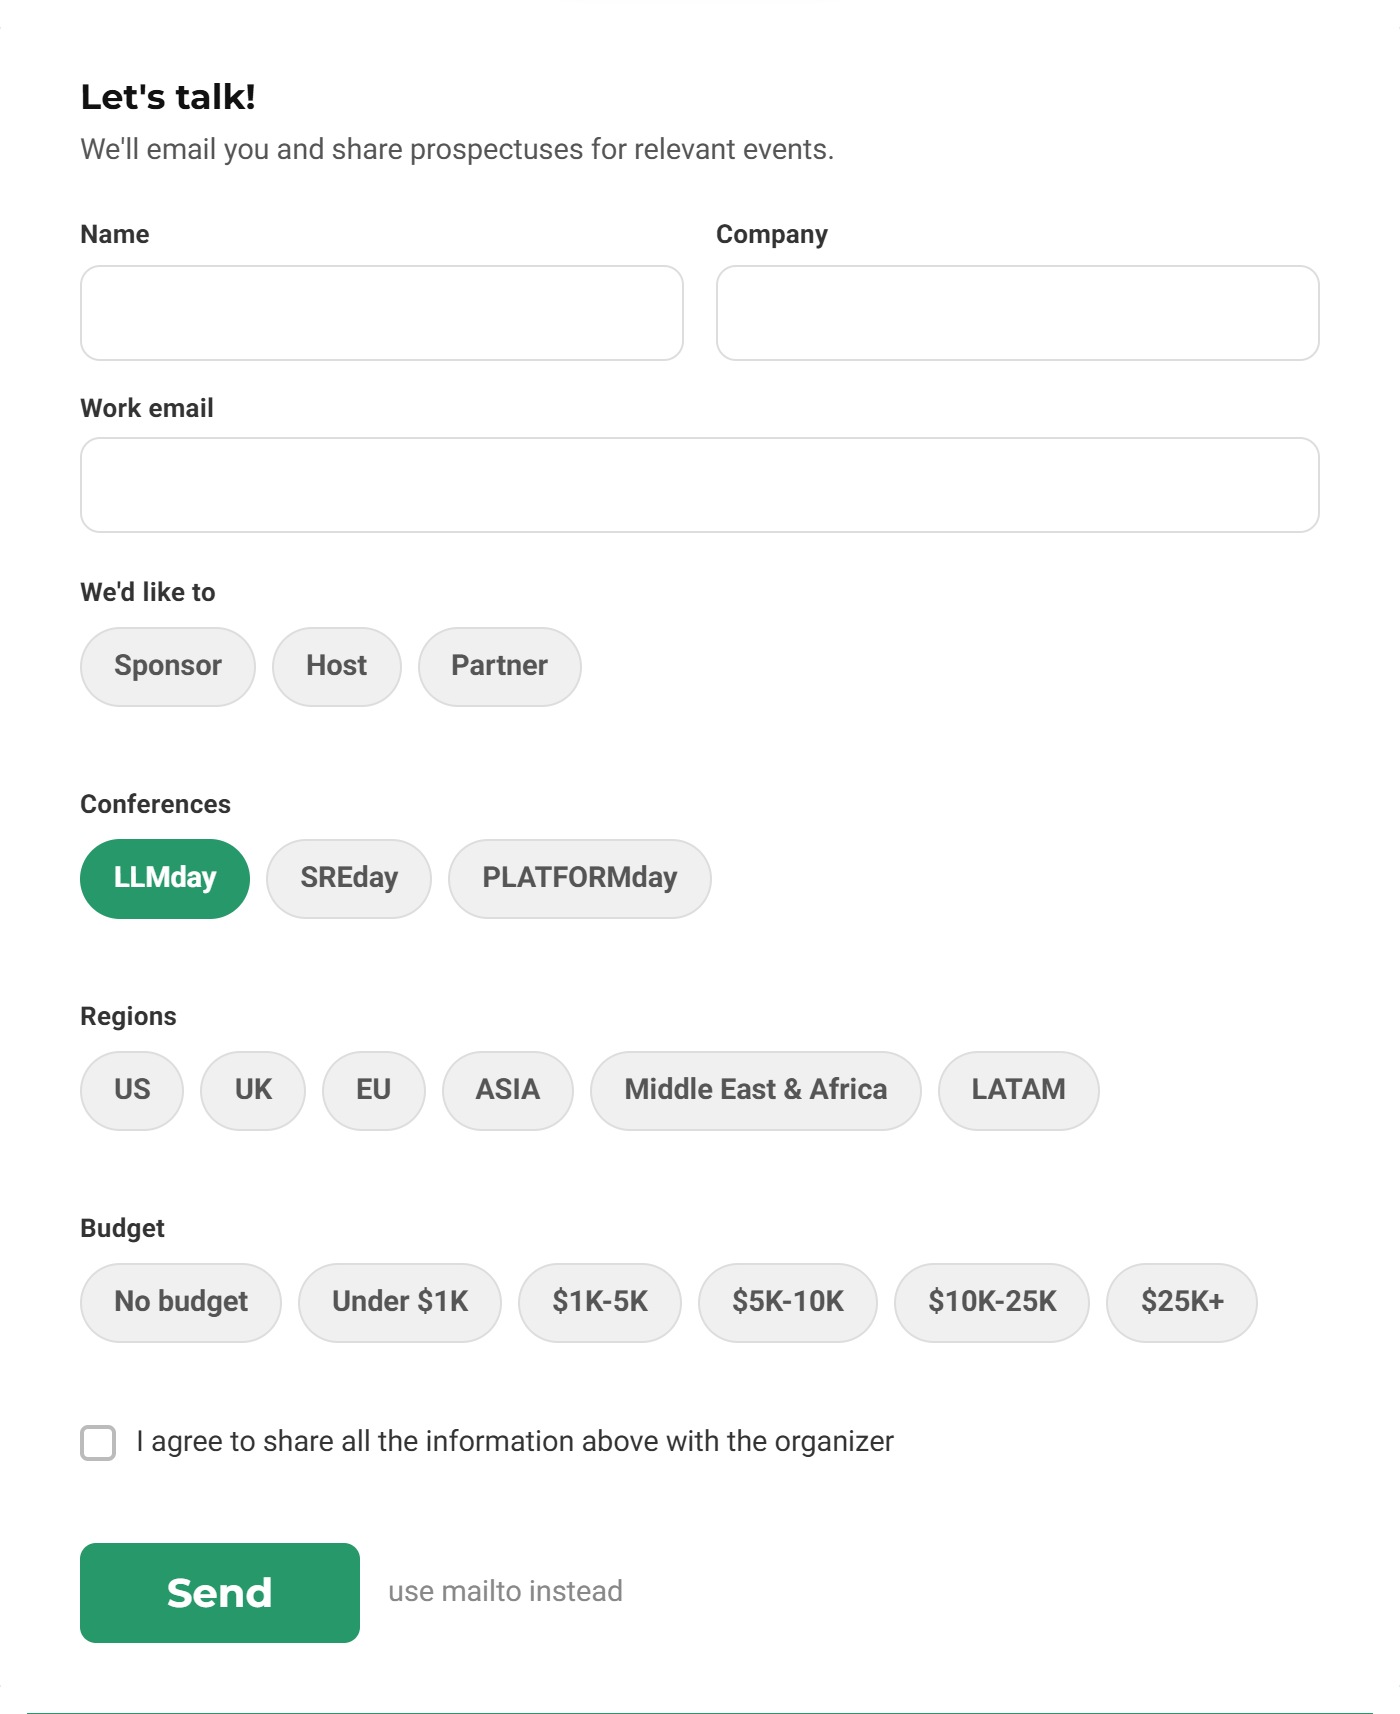
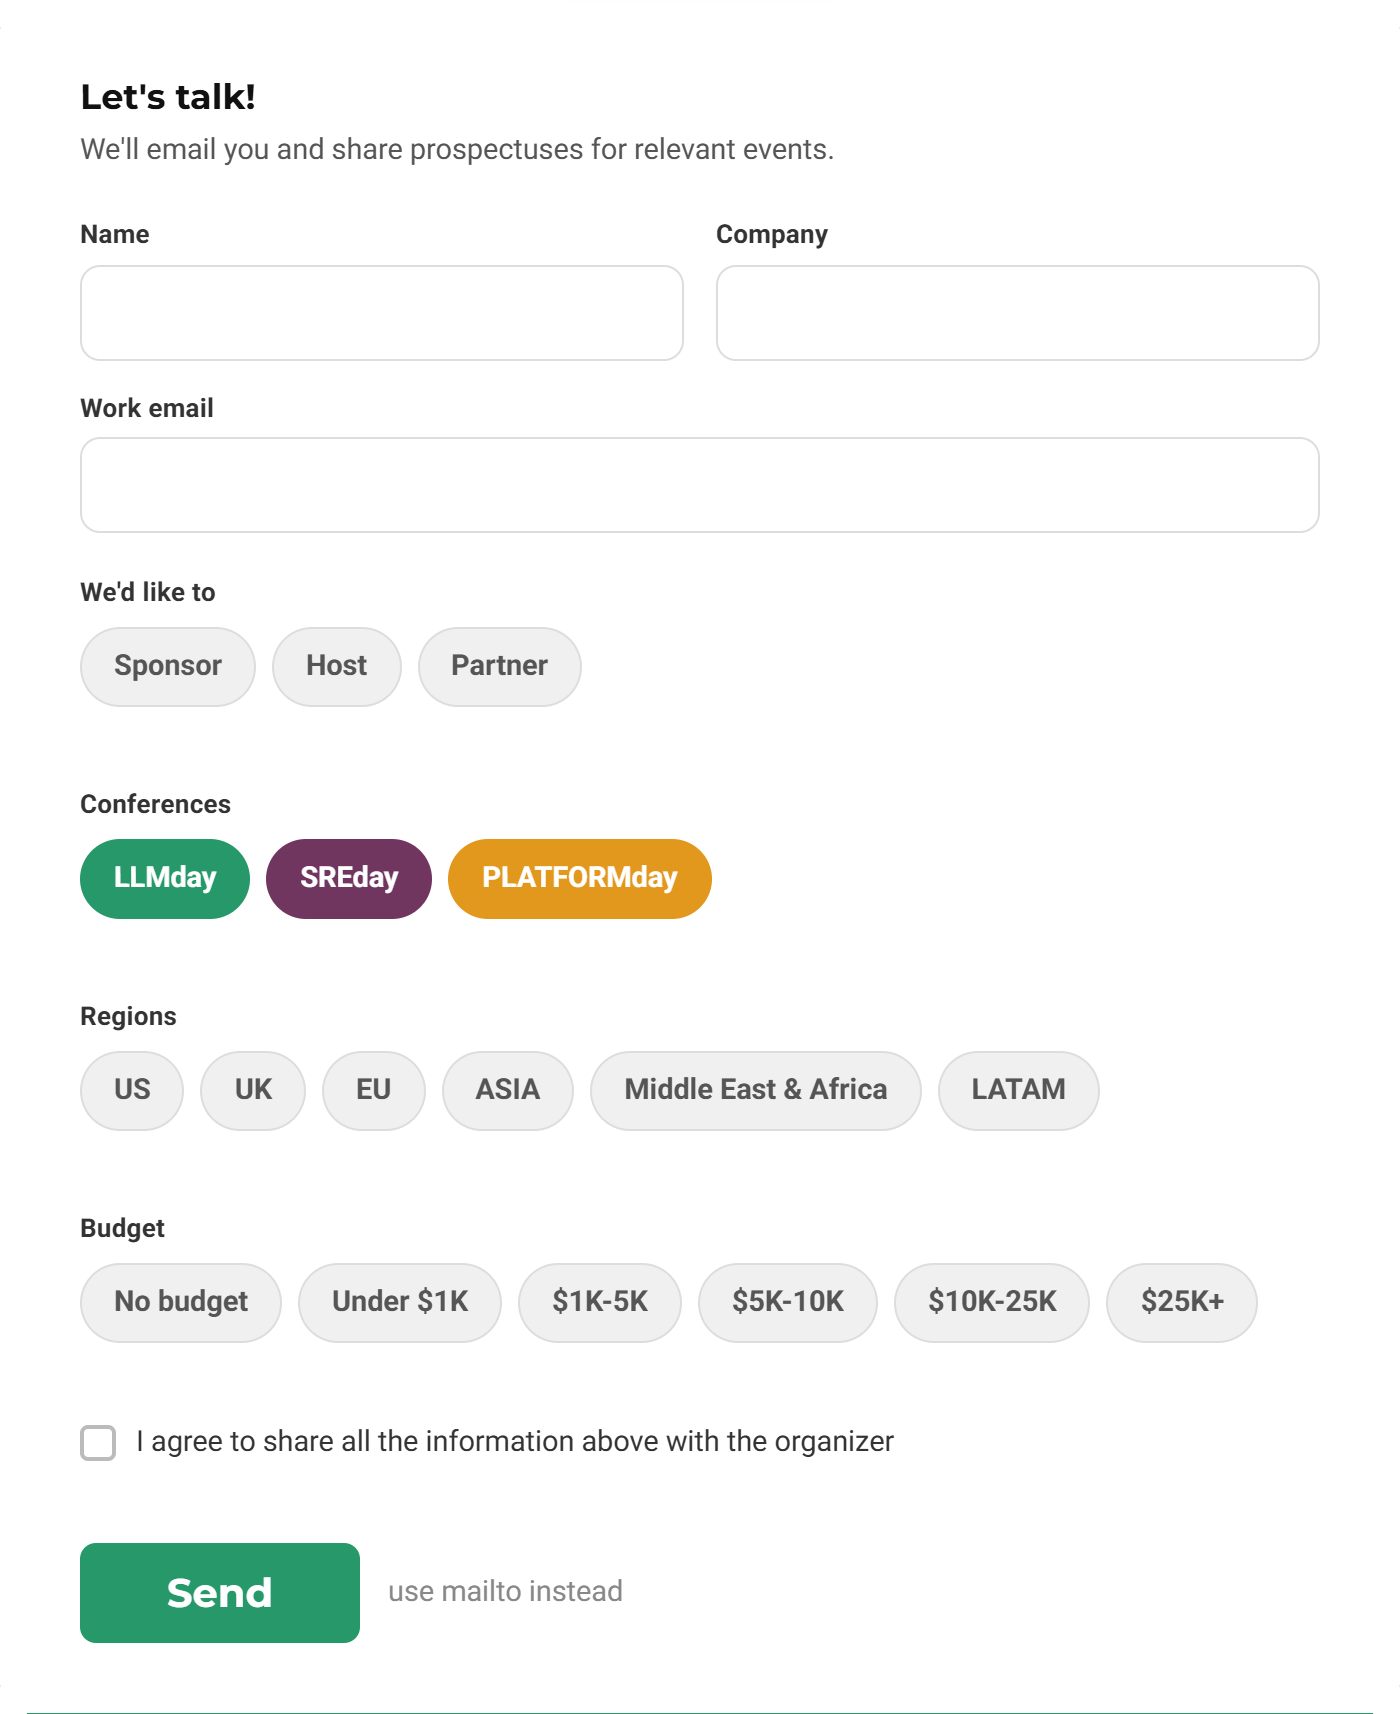
Hello deck: OTHER BRANDS / CFP.NINJA labels on the Call for papers slide; Let's chat form shot with all three brands on

Changed region(s): [[0.1843, 0.4638, 0.5221, 0.5566]]

diff --git a/2026-san-francisco-q4/_templates/hello.html b/2026-san-francisco-q4/_templates/hello.html
@@ -113,17 +113,29 @@
 
     /* 5 - other brands */
     .family { display: flex; gap: 110px; align-items: flex-end; }
-    .family > div { display: flex; flex-direction: column; align-items: center; width: 400px; }
+    .family .it { display: flex; flex-direction: column; align-items: center; width: 400px; }
     .family .logo { width: 330px; height: 330px; margin-bottom: 40px; }
     .family .qr-box { width: 360px; }
     .family.four { gap: 60px; }
-    .family.four > div { width: 380px; }
+    .family.four .it { width: 380px; }
     .family.four .logo { width: 280px; height: 280px; }
     .family.four .qr-box { width: 320px; }
     .family.five { gap: 34px; }
-    .family.five > div { width: 330px; }
+    .family.five .it { width: 330px; }
     .family.five .logo { width: 240px; height: 240px; }
     .family.five .qr-box { width: 280px; }
+    /* Call for papers: a label over each group (OTHER BRANDS over the brands, CFP.NINJA over the ninja), a bracket under it */
+    .family .grp { display: flex; flex-direction: column; align-items: stretch; }
+    .family .grp-items { display: flex; gap: 110px; align-items: flex-end; }
+    .family.four .grp-items { gap: 60px; }
+    .family.five .grp-items { gap: 34px; }
+    .family .grp-lbl { position: relative; text-align: center; font: 600 46px/1 'Oswald', sans-serif; letter-spacing: .08em; text-transform: uppercase;
+                       color: #fff; text-shadow: 0 0 14px var(--glow); padding-bottom: 18px; margin: 0 30px 34px; white-space: nowrap;
+                       border-bottom: 3px solid color-mix(in srgb, var(--glow) 70%, transparent); }
+    .family .grp-lbl::before, .family .grp-lbl::after { content: ''; position: absolute; bottom: -3px; width: 3px; height: 18px;
+                       background: color-mix(in srgb, var(--glow) 70%, transparent); }
+    .family .grp-lbl::before { left: 0; } .family .grp-lbl::after { right: 0; }
+    .s-family .family { margin-top: -40px; }
 
 
     /* 7 - spotlight: an open-source project's own site hero on a slide (Reliaburger: reliaburger.com's paper, ink and rust,
@@ -279,16 +291,21 @@
   </section>
   {% endif %}
 
-  {# 5 - Call for papers (Marek 2026-11-01): the other brands' logos + QRs with the community tools (hello.yaml open_source
-     without spotlight: cfp.ninja) on one slide, the tools 4th - after the first three brands; the spotlit projects get
-     slide 7 instead #}
+  {# 5 - Call for papers (Marek 2026-11-01): the other brands' logos + QRs under "Other brands", then the community tools
+     (hello.yaml open_source without spotlight: cfp.ninja) under their own name - 4th on the brand decks; the spotlit
+     projects get slide 7 instead #}
   {%- set tools = deck.open_source|rejectattr('spotlight')|list %}
-  {%- set cfp_items = deck.family[:3] + tools + deck.family[3:] %}
-  {% if cfp_items %}
+  {%- set cfp_n = deck.family|length + tools|length %}
+  {% if cfp_n %}
   <section class="slide s-family">
     <h2 class="glow h1">Call for papers</h2>
-    <div class="family{% if cfp_items|length > 4 %} five{% elif cfp_items|length > 3 %} four{% endif %}">
-      {% for b in cfp_items %}<div><img class="logo" src="{{ b.logo_src }}" alt="{{ b.name }}" loading="eager"><div class="qr-box">{{ b.qr }}</div></div>{% endfor %}
+    <div class="family{% if cfp_n > 4 %} five{% elif cfp_n > 3 %} four{% endif %}">
+      {% if deck.family %}<div class="grp"><div class="grp-lbl">Other brands</div><div class="grp-items">
+        {% for b in deck.family %}<div class="it"><img class="logo" src="{{ b.logo_src }}" alt="{{ b.name }}" loading="eager"><div class="qr-box">{{ b.qr }}</div></div>{% endfor %}
+      </div></div>{% endif %}
+      {% for o in tools %}<div class="grp"><div class="grp-lbl">{{ o.name }}</div><div class="grp-items">
+        <div class="it"><img class="logo" src="{{ o.logo_src }}" alt="{{ o.name }}" loading="eager"><div class="qr-box">{{ o.qr }}</div></div>
+      </div></div>{% endfor %}
     </div>
   </section>
   {% endif %}

diff --git a/2027-london-q2/_templates/hello.html b/2027-london-q2/_templates/hello.html
@@ -113,17 +113,29 @@
 
     /* 5 - other brands */
     .family { display: flex; gap: 110px; align-items: flex-end; }
-    .family > div { display: flex; flex-direction: column; align-items: center; width: 400px; }
+    .family .it { display: flex; flex-direction: column; align-items: center; width: 400px; }
     .family .logo { width: 330px; height: 330px; margin-bottom: 40px; }
     .family .qr-box { width: 360px; }
     .family.four { gap: 60px; }
-    .family.four > div { width: 380px; }
+    .family.four .it { width: 380px; }
     .family.four .logo { width: 280px; height: 280px; }
     .family.four .qr-box { width: 320px; }
     .family.five { gap: 34px; }
-    .family.five > div { width: 330px; }
+    .family.five .it { width: 330px; }
     .family.five .logo { width: 240px; height: 240px; }
     .family.five .qr-box { width: 280px; }
+    /* Call for papers: a label over each group (OTHER BRANDS over the brands, CFP.NINJA over the ninja), a bracket under it */
+    .family .grp { display: flex; flex-direction: column; align-items: stretch; }
+    .family .grp-items { display: flex; gap: 110px; align-items: flex-end; }
+    .family.four .grp-items { gap: 60px; }
+    .family.five .grp-items { gap: 34px; }
+    .family .grp-lbl { position: relative; text-align: center; font: 600 46px/1 'Oswald', sans-serif; letter-spacing: .08em; text-transform: uppercase;
+                       color: #fff; text-shadow: 0 0 14px var(--glow); padding-bottom: 18px; margin: 0 30px 34px; white-space: nowrap;
+                       border-bottom: 3px solid color-mix(in srgb, var(--glow) 70%, transparent); }
+    .family .grp-lbl::before, .family .grp-lbl::after { content: ''; position: absolute; bottom: -3px; width: 3px; height: 18px;
+                       background: color-mix(in srgb, var(--glow) 70%, transparent); }
+    .family .grp-lbl::before { left: 0; } .family .grp-lbl::after { right: 0; }
+    .s-family .family { margin-top: -40px; }
 
 
     /* 7 - spotlight: an open-source project's own site hero on a slide (Reliaburger: reliaburger.com's paper, ink and rust,
@@ -279,16 +291,21 @@
   </section>
   {% endif %}
 
-  {# 5 - Call for papers (Marek 2026-11-01): the other brands' logos + QRs with the community tools (hello.yaml open_source
-     without spotlight: cfp.ninja) on one slide, the tools 4th - after the first three brands; the spotlit projects get
-     slide 7 instead #}
+  {# 5 - Call for papers (Marek 2026-11-01): the other brands' logos + QRs under "Other brands", then the community tools
+     (hello.yaml open_source without spotlight: cfp.ninja) under their own name - 4th on the brand decks; the spotlit
+     projects get slide 7 instead #}
   {%- set tools = deck.open_source|rejectattr('spotlight')|list %}
-  {%- set cfp_items = deck.family[:3] + tools + deck.family[3:] %}
-  {% if cfp_items %}
+  {%- set cfp_n = deck.family|length + tools|length %}
+  {% if cfp_n %}
   <section class="slide s-family">
     <h2 class="glow h1">Call for papers</h2>
-    <div class="family{% if cfp_items|length > 4 %} five{% elif cfp_items|length > 3 %} four{% endif %}">
-      {% for b in cfp_items %}<div><img class="logo" src="{{ b.logo_src }}" alt="{{ b.name }}" loading="eager"><div class="qr-box">{{ b.qr }}</div></div>{% endfor %}
+    <div class="family{% if cfp_n > 4 %} five{% elif cfp_n > 3 %} four{% endif %}">
+      {% if deck.family %}<div class="grp"><div class="grp-lbl">Other brands</div><div class="grp-items">
+        {% for b in deck.family %}<div class="it"><img class="logo" src="{{ b.logo_src }}" alt="{{ b.name }}" loading="eager"><div class="qr-box">{{ b.qr }}</div></div>{% endfor %}
+      </div></div>{% endif %}
+      {% for o in tools %}<div class="grp"><div class="grp-lbl">{{ o.name }}</div><div class="grp-items">
+        <div class="it"><img class="logo" src="{{ o.logo_src }}" alt="{{ o.name }}" loading="eager"><div class="qr-box">{{ o.qr }}</div></div>
+      </div></div>{% endfor %}
     </div>
   </section>
   {% endif %}

diff --git a/_event_template/_templates/hello.html b/_event_template/_templates/hello.html
@@ -113,17 +113,29 @@
 
     /* 5 - other brands */
     .family { display: flex; gap: 110px; align-items: flex-end; }
-    .family > div { display: flex; flex-direction: column; align-items: center; width: 400px; }
+    .family .it { display: flex; flex-direction: column; align-items: center; width: 400px; }
     .family .logo { width: 330px; height: 330px; margin-bottom: 40px; }
     .family .qr-box { width: 360px; }
     .family.four { gap: 60px; }
-    .family.four > div { width: 380px; }
+    .family.four .it { width: 380px; }
     .family.four .logo { width: 280px; height: 280px; }
     .family.four .qr-box { width: 320px; }
     .family.five { gap: 34px; }
-    .family.five > div { width: 330px; }
+    .family.five .it { width: 330px; }
     .family.five .logo { width: 240px; height: 240px; }
     .family.five .qr-box { width: 280px; }
+    /* Call for papers: a label over each group (OTHER BRANDS over the brands, CFP.NINJA over the ninja), a bracket under it */
+    .family .grp { display: flex; flex-direction: column; align-items: stretch; }
+    .family .grp-items { display: flex; gap: 110px; align-items: flex-end; }
+    .family.four .grp-items { gap: 60px; }
+    .family.five .grp-items { gap: 34px; }
+    .family .grp-lbl { position: relative; text-align: center; font: 600 46px/1 'Oswald', sans-serif; letter-spacing: .08em; text-transform: uppercase;
+                       color: #fff; text-shadow: 0 0 14px var(--glow); padding-bottom: 18px; margin: 0 30px 34px; white-space: nowrap;
+                       border-bottom: 3px solid color-mix(in srgb, var(--glow) 70%, transparent); }
+    .family .grp-lbl::before, .family .grp-lbl::after { content: ''; position: absolute; bottom: -3px; width: 3px; height: 18px;
+                       background: color-mix(in srgb, var(--glow) 70%, transparent); }
+    .family .grp-lbl::before { left: 0; } .family .grp-lbl::after { right: 0; }
+    .s-family .family { margin-top: -40px; }
 
 
     /* 7 - spotlight: an open-source project's own site hero on a slide (Reliaburger: reliaburger.com's paper, ink and rust,
@@ -279,16 +291,21 @@
   </section>
   {% endif %}
 
-  {# 5 - Call for papers (Marek 2026-11-01): the other brands' logos + QRs with the community tools (hello.yaml open_source
-     without spotlight: cfp.ninja) on one slide, the tools 4th - after the first three brands; the spotlit projects get
-     slide 7 instead #}
+  {# 5 - Call for papers (Marek 2026-11-01): the other brands' logos + QRs under "Other brands", then the community tools
+     (hello.yaml open_source without spotlight: cfp.ninja) under their own name - 4th on the brand decks; the spotlit
+     projects get slide 7 instead #}
   {%- set tools = deck.open_source|rejectattr('spotlight')|list %}
-  {%- set cfp_items = deck.family[:3] + tools + deck.family[3:] %}
-  {% if cfp_items %}
+  {%- set cfp_n = deck.family|length + tools|length %}
+  {% if cfp_n %}
   <section class="slide s-family">
     <h2 class="glow h1">Call for papers</h2>
-    <div class="family{% if cfp_items|length > 4 %} five{% elif cfp_items|length > 3 %} four{% endif %}">
-      {% for b in cfp_items %}<div><img class="logo" src="{{ b.logo_src }}" alt="{{ b.name }}" loading="eager"><div class="qr-box">{{ b.qr }}</div></div>{% endfor %}
+    <div class="family{% if cfp_n > 4 %} five{% elif cfp_n > 3 %} four{% endif %}">
+      {% if deck.family %}<div class="grp"><div class="grp-lbl">Other brands</div><div class="grp-items">
+        {% for b in deck.family %}<div class="it"><img class="logo" src="{{ b.logo_src }}" alt="{{ b.name }}" loading="eager"><div class="qr-box">{{ b.qr }}</div></div>{% endfor %}
+      </div></div>{% endif %}
+      {% for o in tools %}<div class="grp"><div class="grp-lbl">{{ o.name }}</div><div class="grp-items">
+        <div class="it"><img class="logo" src="{{ o.logo_src }}" alt="{{ o.name }}" loading="eager"><div class="qr-box">{{ o.qr }}</div></div>
+      </div></div>{% endfor %}
     </div>
   </section>
   {% endif %}

diff --git a/hello-deck/tools/shoot_lead_form.py b/hello-deck/tools/shoot_lead_form.py
@@ -1,5 +1,5 @@
-"""hello-deck/chat/form-<brand>.png - the empty "Let's talk!" lead form (Sponsor / Host / Partner) as a visitor sees it on
-the brand's home page, for the deck's "Let's chat!" slide (Marek 2026-10-31: "show how easy it is to start a conversation").
+"""hello-deck/chat/form-<brand>.png - the empty "Let's talk!" lead form (Sponsor / Host / Partner) from
+the brand's home page, every conference chip on, for the deck's "Let's chat!" slide (Marek 2026-10-31: "show how easy it is to start a conversation").
 Run by hand when the form changes, then copy hello-deck/chat/ into the other three repos (the folder is identical):
 
     pip install websocket-client pillow
@@ -57,13 +57,16 @@ def shoot(tab, key, url):
         print('%s: no lead form at %s' % (key, url))
         return
     time.sleep(2)
-    # unrolled, no transition, every field empty (the page brand's chip stays pre-checked, as visitors see it)
+    # unrolled, no transition, every field empty, all three brand chips on
     tab.js('''(function () {
       var p = document.getElementById('lead-panel');
       if (window.leadOpen) leadOpen(); else if (!p.classList.contains('open') && window.leadToggle) leadToggle();
       p.style.transition = 'none'; p.style.maxHeight = 'none'; p.style.height = 'auto'; p.style.opacity = '1';
       p.classList.add('open');
       document.querySelectorAll('#lead-form input[type=text], #lead-form input[type=email]').forEach(function (i) { i.value = ''; i.blur(); });
+      document.querySelectorAll('.lead-group.is-invalid').forEach(function (g) { g.classList.remove('is-invalid'); });
+      // every conference chip on (Marek 2026-11-01: "have all 3 brands highlighted")
+      document.querySelectorAll('#lead-form input[name=brands]').forEach(function (i) { i.checked = true; i.dispatchEvent(new Event('change', {bubbles: true})); });
       document.querySelectorAll('.lead-group.is-invalid').forEach(function (g) { g.classList.remove('is-invalid'); });
       p.scrollIntoView({block: 'center'});
     })()''')
